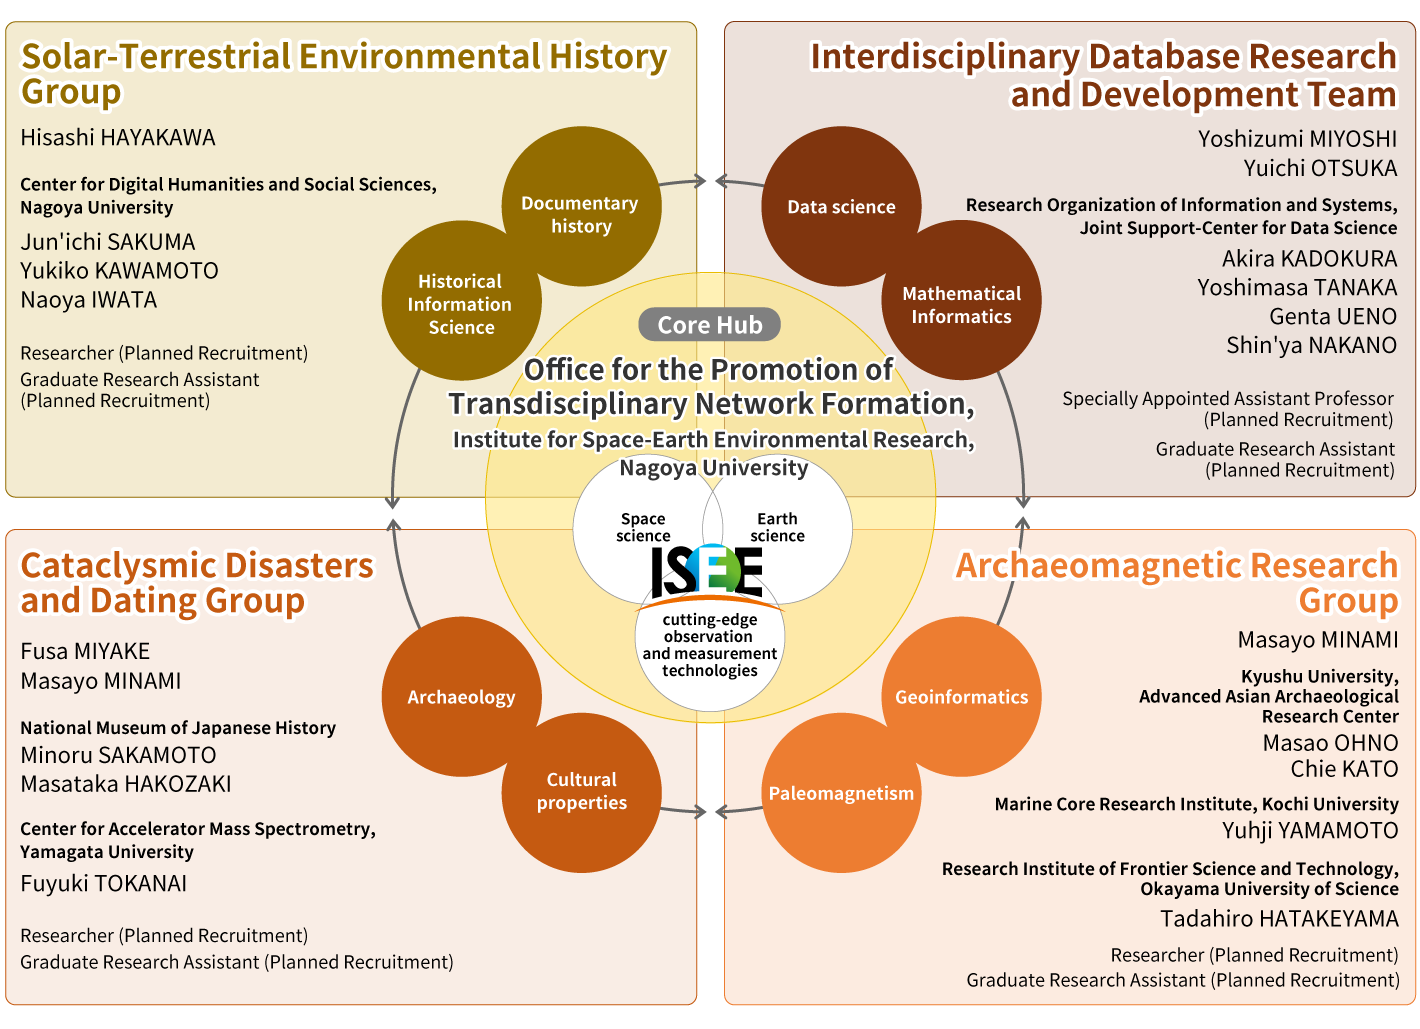
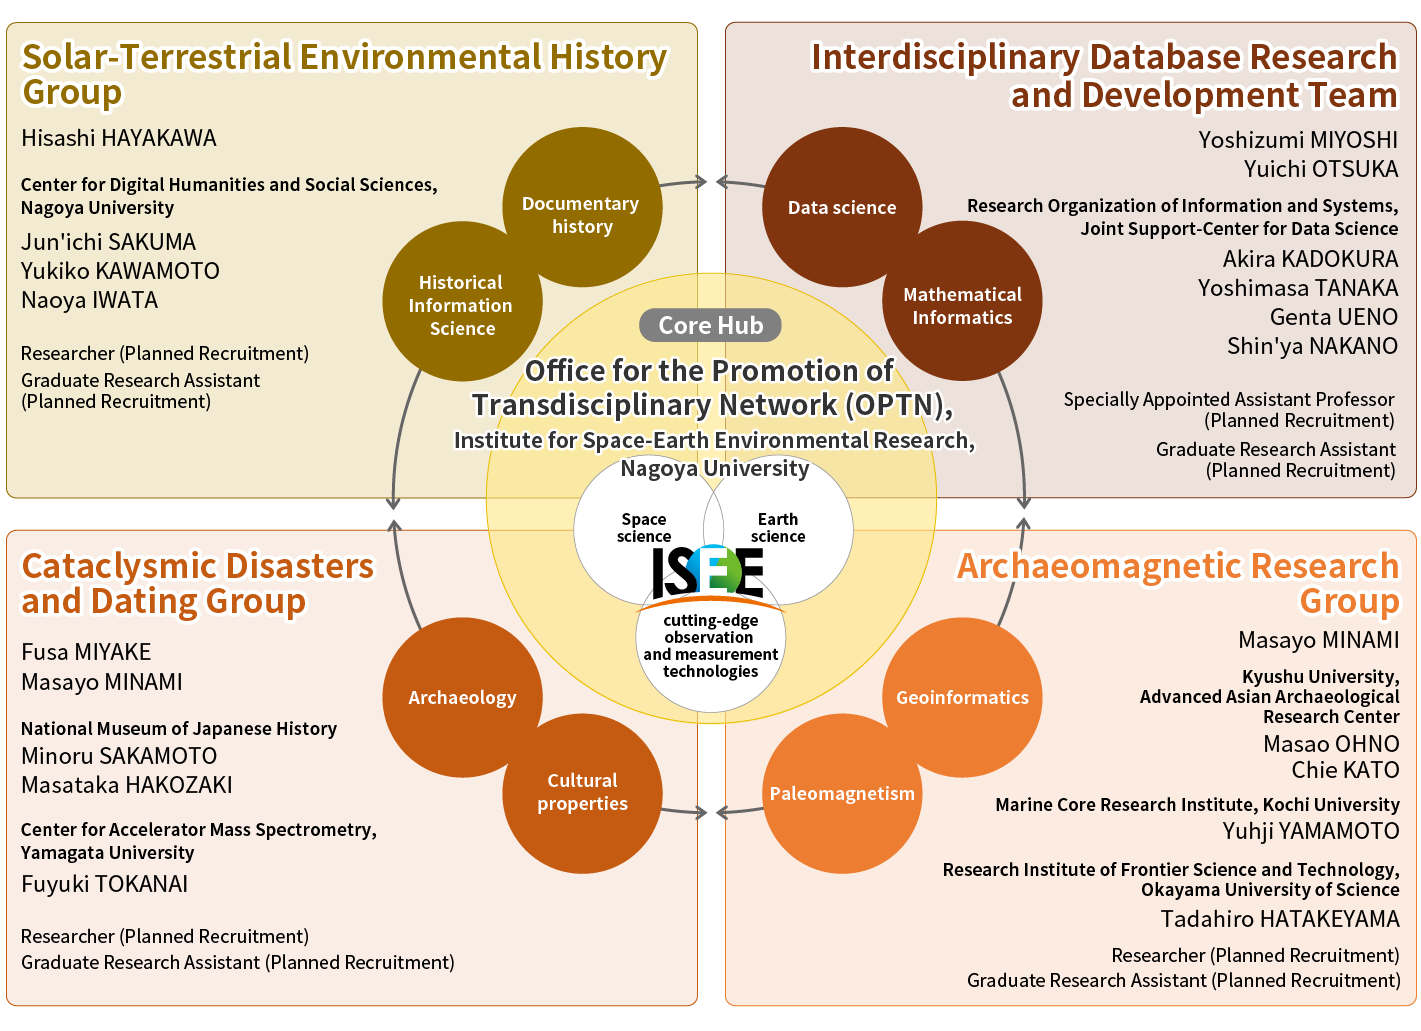
Add files via upload

diff --git a/en/organization/isee-tdn.html b/en/organization/isee-tdn.html
@@ -8,7 +8,7 @@
 <meta name="format-detection" content="telephone=no">
 <meta name="robots" content="noindex">
 
-<title>Office for the Promotion of Transdisciplinary Network Formation | TRANSEHA Transdisciplinary Network linking Space-Earth Environmental Science, History, and Archaeology</title>
+<title>Office for the Promotion of Transdisciplinary Network (OPTN) | TRANSEHA Transdisciplinary Network linking Space-Earth Environmental Science, History, and Archaeology</title>
 
 <meta http-equiv="content-type" content="text/html; charset=UTF-8">
 <link rel="canonical" href="">
@@ -145,18 +145,18 @@
                         <h3>Office for the Promotion of 
                             Transdisciplinary Network Formation</h3>
 
-<h4>Office for the Promotion of Transdisciplinary Network Formation<br>Members</h4>
+<h4>Office for the Promotion of Transdisciplinary Network (OPTN)<br>Members</h4>
 <div class="media-member">
     <div class="body">
         <p class="hdg">Masayo MINAMI</p>
         <p class="position">Office Manager・Professor</p>
-        <p class="position">Office for the Promotion of Transdisciplinary Network Formation / Division for Chronological Research / Center for International Collaborative Research</p>
+        <p class="position">Office for the Promotion of Transdisciplinary Network (OPTN) / Division for Chronological Research / Center for International Collaborative Research</p>
     </div>
 
     <div class="body">
         <p class="hdg">Fusa MIYAKE</p>
         <p class="position">Associate Professor</p>
-        <p class="position">Office for the Promotion of Transdisciplinary Network Formation / Division for Cosmic-ray Research</p>
+        <p class="position">Office for the Promotion of Transdisciplinary Network (OPTN) / Division for Cosmic-ray Research</p>
     </div>
 
     <div class="body">
@@ -208,12 +208,12 @@
     <div class="body">
         <p class="hdg">Chika TAKABORI</p>
         <p class="position">Secretary</p>
-        <p class="position">Office for the Promotion of Transdisciplinary Network Formation</p>
+        <p class="position">Office for the Promotion of Transdisciplinary Network (OPTN)</p>
     </div>
 </div>
 
 
-                        <!-- <h4 class="pt-5">Office for the Promotion of Transdisciplinary Network Formation<br>Advisory Board</h4>
+                        <!-- <h4 class="pt-5">Office for the Promotion of Transdisciplinary Network (OPTN)<br>Advisory Board</h4>
                         <div class="media-member">
                             <div class="body">
                                 <p class="hdg">Masao OHNO</p>
@@ -284,7 +284,7 @@
                     <div class="col-lg-3 order-2 order-lg-1 sidebar-left mt-5 mt-lg-0" id="sidebar">
                         <ul class="nav seren-vertical-menu">
                         <li><a href="all.html">Overall view</a></li>
-                        <li class="selected"><a href="">Office for the Promotion of Transdisciplinary Network Formation</a></li>
+                        <li class="selected"><a href="">Office for the Promotion of Transdisciplinary Network (OPTN)</a></li>
                         <li><a href="cataclysmic-disasters.html">Cataclysmic Disasters and Dating Group</a></li>
                         <li><a href="archaeomagnetism.html">Archaeomagnetic Research Group</a></li>
                         <li><a href="solar-terrestrial.html">Solar-Terrestrial Environmental History Group</a></li>
@@ -327,7 +327,7 @@
                         <p class="text-center text-xl-start" style="font-size: 16px;">Transdisciplinary Network linking<br>Space-Earth Environmental Science, History, and Archaeology</p>
                     </div>
                     <div class="mt-5 mt-xl-0">
-                        <p class="text-center text-xl-end pb-1" style="font-size: 16px;">Office for the Promotion of Transdisciplinary Network Formation</p>
+                        <p class="text-center text-xl-end pb-1" style="font-size: 16px;">Office for the Promotion of Transdisciplinary Network (OPTN)</p>
                         <p class="text-center text-xl-end">
                             〒464-8601 Furo-cho, Chikusa-ku, Nagoya 464-8601, Japan<br>Institute for Spacer–Earth Environmental Research, Nagoya University<br>Research Institutes Bulding II, Room 208<br>
                             E-mail: <a href="mailto:transeha@nendai.nagoya-u.ac.jp">transeha@nendai.nagoya-u.ac.jp</a> </p>

diff --git a/en/organization/interdisciplinary-database.html b/en/organization/interdisciplinary-database.html
@@ -273,7 +273,7 @@
                     <div class="col-lg-3 order-2 order-lg-1 sidebar-left mt-5 mt-lg-0" id="sidebar">
                         <ul class="nav seren-vertical-menu">
                         <li><a href="all.html">Overall view</a></li>
-                        <li><a href="isee-tdn.html">Office for the Promotion of Transdisciplinary Network Formation</a></li>
+                        <li><a href="isee-tdn.html">Office for the Promotion of Transdisciplinary Network (OPTN)</a></li>
                         <li><a href="cataclysmic-disasters.html">Cataclysmic Disasters and Dating Group</a></li>
                         <li><a href="archaeomagnetism.html">Archaeomagnetic Research Group</a></li>
                         <li><a href="solar-terrestrial.html">Solar-Terrestrial Environmental History Group</a></li>
@@ -316,7 +316,7 @@
                         <p class="text-center text-xl-start" style="font-size: 16px;">Transdisciplinary Network linking<br>Space-Earth Environmental Science, History, and Archaeology</p>
                     </div>
                     <div class="mt-5 mt-xl-0">
-                        <p class="text-center text-xl-end pb-1" style="font-size: 16px;">Office for the Promotion of Transdisciplinary Network Formation</p>
+                        <p class="text-center text-xl-end pb-1" style="font-size: 16px;">Office for the Promotion of Transdisciplinary Network (OPTN)</p>
                         <p class="text-center text-xl-end">
                             〒464-8601 Furo-cho, Chikusa-ku, Nagoya 464-8601, Japan<br>Institute for Spacer–Earth Environmental Research, Nagoya University<br>Research Institutes Bulding II, Room 208<br>
                             E-mail: <a href="mailto:transeha@nendai.nagoya-u.ac.jp">transeha@nendai.nagoya-u.ac.jp</a> </p>

diff --git a/en/organization/archaeomagnetism.html b/en/organization/archaeomagnetism.html
@@ -240,7 +240,7 @@
                     <div class="col-lg-3 order-2 order-lg-1 sidebar-left mt-5 mt-lg-0" id="sidebar">
                         <ul class="nav seren-vertical-menu">
                         <li><a href="all.html">Overall view</a></li>
-                        <li><a href="isee-tdn.html">Office for the Promotion of Transdisciplinary Network Formation</a></li>
+                        <li><a href="isee-tdn.html">Office for the Promotion of Transdisciplinary Network (OPTN)</a></li>
                         <li><a href="cataclysmic-disasters.html">Cataclysmic Disasters and Dating Group</a></li>
                         <li class="selected"><a href="">Archaeomagnetic Research Group</a></li>
                         <li><a href="solar-terrestrial.html">Solar-Terrestrial Environmental History Group</a></li>
@@ -283,7 +283,7 @@
                         <p class="text-center text-xl-start" style="font-size: 16px;">Transdisciplinary Network linking<br>Space-Earth Environmental Science, History, and Archaeology</p>
                     </div>
                     <div class="mt-5 mt-xl-0">
-                        <p class="text-center text-xl-end pb-1" style="font-size: 16px;">Office for the Promotion of Transdisciplinary Network Formation</p>
+                        <p class="text-center text-xl-end pb-1" style="font-size: 16px;">Office for the Promotion of Transdisciplinary Network (OPTN)</p>
                         <p class="text-center text-xl-end">
                             〒464-8601 Furo-cho, Chikusa-ku, Nagoya 464-8601, Japan<br>Institute for Spacer–Earth Environmental Research, Nagoya University<br>Research Institutes Bulding II, Room 208<br>
                             E-mail: <a href="mailto:transeha@nendai.nagoya-u.ac.jp">transeha@nendai.nagoya-u.ac.jp</a> </p>

diff --git a/en/organization/solar-terrestrial.html b/en/organization/solar-terrestrial.html
@@ -230,7 +230,7 @@
                     <div class="col-lg-3 order-2 order-lg-1 sidebar-left mt-5 mt-lg-0" id="sidebar">
                         <ul class="nav seren-vertical-menu">
                         <li><a href="all.html">Overall view</a></li>
-                        <li><a href="isee-tdn.html">Office for the Promotion of Transdisciplinary Network Formation</a></li>
+                        <li><a href="isee-tdn.html">Office for the Promotion of Transdisciplinary Network (OPTN)</a></li>
                         <li><a href="cataclysmic-disasters.html">Cataclysmic Disasters and Dating Group</a></li>
                         <li><a href="archaeomagnetism.html">Archaeomagnetic Research Group</a></li>
                         <li class="selected"><a href="">Solar-Terrestrial Environmental History Group</a></li>
@@ -273,7 +273,7 @@
                         <p class="text-center text-xl-start" style="font-size: 16px;">Transdisciplinary Network linking<br>Space-Earth Environmental Science, History, and Archaeology</p>
                     </div>
                     <div class="mt-5 mt-xl-0">
-                        <p class="text-center text-xl-end pb-1" style="font-size: 16px;">Office for the Promotion of Transdisciplinary Network Formation</p>
+                        <p class="text-center text-xl-end pb-1" style="font-size: 16px;">Office for the Promotion of Transdisciplinary Network (OPTN)</p>
                         <p class="text-center text-xl-end">
                             〒464-8601 Furo-cho, Chikusa-ku, Nagoya 464-8601, Japan<br>Institute for Spacer–Earth Environmental Research, Nagoya University<br>Research Institutes Bulding II, Room 208<br>
                             E-mail: <a href="mailto:transeha@nendai.nagoya-u.ac.jp">transeha@nendai.nagoya-u.ac.jp</a> </p>

diff --git a/en/overview.html b/en/overview.html
@@ -2881,7 +2881,7 @@
                         <p class="text-center text-xl-start" style="font-size: 16px;">Transdisciplinary Network linking<br>Space-Earth Environmental Science, History, and Archaeology</p>
                     </div>
                     <div class="mt-5 mt-xl-0">
-                        <p class="text-center text-xl-end pb-1" style="font-size: 16px;">Office for the Promotion of Transdisciplinary Network Formation</p>
+                        <p class="text-center text-xl-end pb-1" style="font-size: 16px;">Office for the Promotion of Transdisciplinary Network (OPTN)</p>
                         <p class="text-center text-xl-end">
                             〒464-8601 Furo-cho, Chikusa-ku, Nagoya 464-8601, Japan<br>Institute for Spacer–Earth Environmental Research, Nagoya University<br>Research Institutes Bulding II, Room 208<br>
                             E-mail: <a href="mailto:transeha@nendai.nagoya-u.ac.jp">transeha@nendai.nagoya-u.ac.jp</a> </p>

diff --git a/en/index.html b/en/index.html
@@ -261,7 +261,7 @@
                         <p class="text-center text-xl-start" style="font-size: 16px;">Transdisciplinary Network linking<br>Space-Earth Environmental Science, History, and Archaeology</p>
                     </div>
                     <div class="mt-5 mt-xl-0">
-                        <p class="text-center text-xl-end pb-1" style="font-size: 16px;">Office for the Promotion of Transdisciplinary Network Formation</p>
+                        <p class="text-center text-xl-end pb-1" style="font-size: 16px;">Office for the Promotion of Transdisciplinary Network (OPTN)</p>
                         <p class="text-center text-xl-end">
                             〒464-8601 Furo-cho, Chikusa-ku, Nagoya 464-8601, Japan<br>Institute for Spacer–Earth Environmental Research, Nagoya University<br>Research Institutes Bulding II, Room 208<br>
                             E-mail: <a href="mailto:transeha@nendai.nagoya-u.ac.jp">transeha@nendai.nagoya-u.ac.jp</a> </p>

diff --git a/en/research/application.html b/en/research/application.html
@@ -222,7 +222,7 @@
                         <p class="text-center text-xl-start" style="font-size: 16px;">Transdisciplinary Network linking<br>Space-Earth Environmental Science, History, and Archaeology</p>
                     </div>
                     <div class="mt-5 mt-xl-0">
-                        <p class="text-center text-xl-end pb-1" style="font-size: 16px;">Office for the Promotion of Transdisciplinary Network Formation</p>
+                        <p class="text-center text-xl-end pb-1" style="font-size: 16px;">Office for the Promotion of Transdisciplinary Network (OPTN)</p>
                         <p class="text-center text-xl-end">
                             〒464-8601 Furo-cho, Chikusa-ku, Nagoya 464-8601, Japan<br>Institute for Spacer–Earth Environmental Research, Nagoya University<br>Research Institutes Bulding II, Room 208<br>
                             E-mail: <a href="mailto:transeha@nendai.nagoya-u.ac.jp">transeha@nendai.nagoya-u.ac.jp</a> </p>

diff --git a/en/research/projects.html b/en/research/projects.html
@@ -184,7 +184,7 @@
                         <p class="text-center text-xl-start" style="font-size: 16px;">Transdisciplinary Network linking<br>Space-Earth Environmental Science, History, and Archaeology</p>
                     </div>
                     <div class="mt-5 mt-xl-0">
-                        <p class="text-center text-xl-end pb-1" style="font-size: 16px;">Office for the Promotion of Transdisciplinary Network Formation</p>
+                        <p class="text-center text-xl-end pb-1" style="font-size: 16px;">Office for the Promotion of Transdisciplinary Network (OPTN)</p>
                         <p class="text-center text-xl-end">
                             〒464-8601 Furo-cho, Chikusa-ku, Nagoya 464-8601, Japan<br>Institute for Spacer–Earth Environmental Research, Nagoya University<br>Research Institutes Bulding II, Room 208<br>
                             E-mail: <a href="mailto:transeha@nendai.nagoya-u.ac.jp">transeha@nendai.nagoya-u.ac.jp</a> </p>

diff --git a/en/research/reports.html b/en/research/reports.html
@@ -184,7 +184,7 @@
                         <p class="text-center text-xl-start" style="font-size: 16px;">Transdisciplinary Network linking<br>Space-Earth Environmental Science, History, and Archaeology</p>
                     </div>
                     <div class="mt-5 mt-xl-0">
-                        <p class="text-center text-xl-end pb-1" style="font-size: 16px;">Office for the Promotion of Transdisciplinary Network Formation</p>
+                        <p class="text-center text-xl-end pb-1" style="font-size: 16px;">Office for the Promotion of Transdisciplinary Network (OPTN)</p>
                         <p class="text-center text-xl-end">
                             〒464-8601 Furo-cho, Chikusa-ku, Nagoya 464-8601, Japan<br>Institute for Spacer–Earth Environmental Research, Nagoya University<br>Research Institutes Bulding II, Room 208<br>
                             E-mail: <a href="mailto:transeha@nendai.nagoya-u.ac.jp">transeha@nendai.nagoya-u.ac.jp</a> </p>

diff --git a/en/topics/2024.html b/en/topics/2024.html
@@ -209,7 +209,7 @@
                         <p class="text-center text-xl-start" style="font-size: 16px;">Transdisciplinary Network linking<br>Space-Earth Environmental Science, History, and Archaeology</p>
                     </div>
                     <div class="mt-5 mt-xl-0">
-                        <p class="text-center text-xl-end pb-1" style="font-size: 16px;">Office for the Promotion of Transdisciplinary Network Formation</p>
+                        <p class="text-center text-xl-end pb-1" style="font-size: 16px;">Office for the Promotion of Transdisciplinary Network (OPTN)</p>
                         <p class="text-center text-xl-end">
                             〒464-8601 Furo-cho, Chikusa-ku, Nagoya 464-8601, Japan<br>Institute for Spacer–Earth Environmental Research, Nagoya University<br>Research Institutes Bulding II, Room 208<br>
                             E-mail: <a href="mailto:transeha@nendai.nagoya-u.ac.jp">transeha@nendai.nagoya-u.ac.jp</a> </p>

diff --git a/en/organization/all.html b/en/organization/all.html
@@ -2153,7 +2153,7 @@
                   <div class="col-lg-3 order-2 order-lg-1 sidebar-left mt-5 mt-lg-0" id="sidebar">
                     <ul class="nav seren-vertical-menu">
                       <li class="selected"><a href="">Overall view</a></li>
-                      <li><a href="isee-tdn.html">Office for the Promotion of Transdisciplinary Network Formation</a></li>
+                      <li><a href="isee-tdn.html">Office for the Promotion of Transdisciplinary Network (OPTN)</a></li>
                       <li><a href="cataclysmic-disasters.html">Cataclysmic Disasters and Dating Group</a></li>
                       <li><a href="archaeomagnetism.html">Archaeomagnetic Research Group</a></li>
                       <li><a href="solar-terrestrial.html">Solar-Terrestrial Environmental History Group</a></li>

diff --git a/en/organization/cataclysmic-disasters.html b/en/organization/cataclysmic-disasters.html
@@ -257,7 +257,7 @@
                   <div class="col-lg-3 order-2 order-lg-1 sidebar-left mt-5 mt-lg-0" id="sidebar">
                     <ul class="nav seren-vertical-menu">
                       <li><a href="all.html">Overall view</a></li>
-                      <li><a href="isee-tdn.html">Office for the Promotion of Transdisciplinary Network Formation</a></li>
+                      <li><a href="isee-tdn.html">Office for the Promotion of Transdisciplinary Network (OPTN)</a></li>
                       <li class="selected"><a href="">Cataclysmic Disasters and Dating Group</a></li>
                       <li><a href="archaeomagnetism.html">Archaeomagnetic Research Group</a></li>
                       <li><a href="solar-terrestrial.html">Solar-Terrestrial Environmental History Group</a></li>
